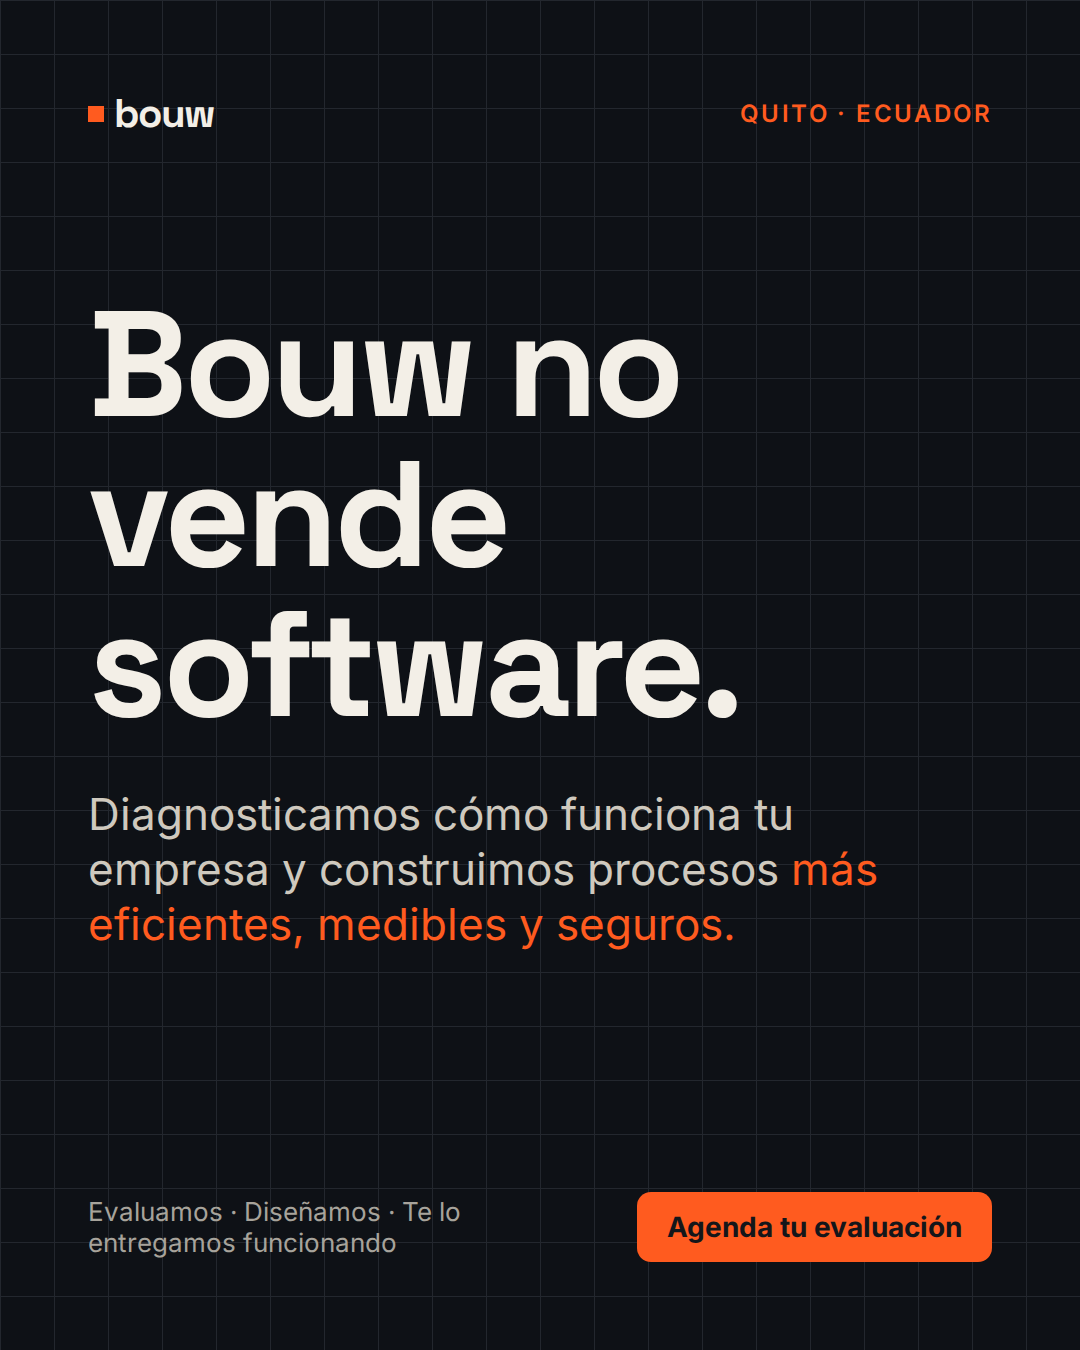
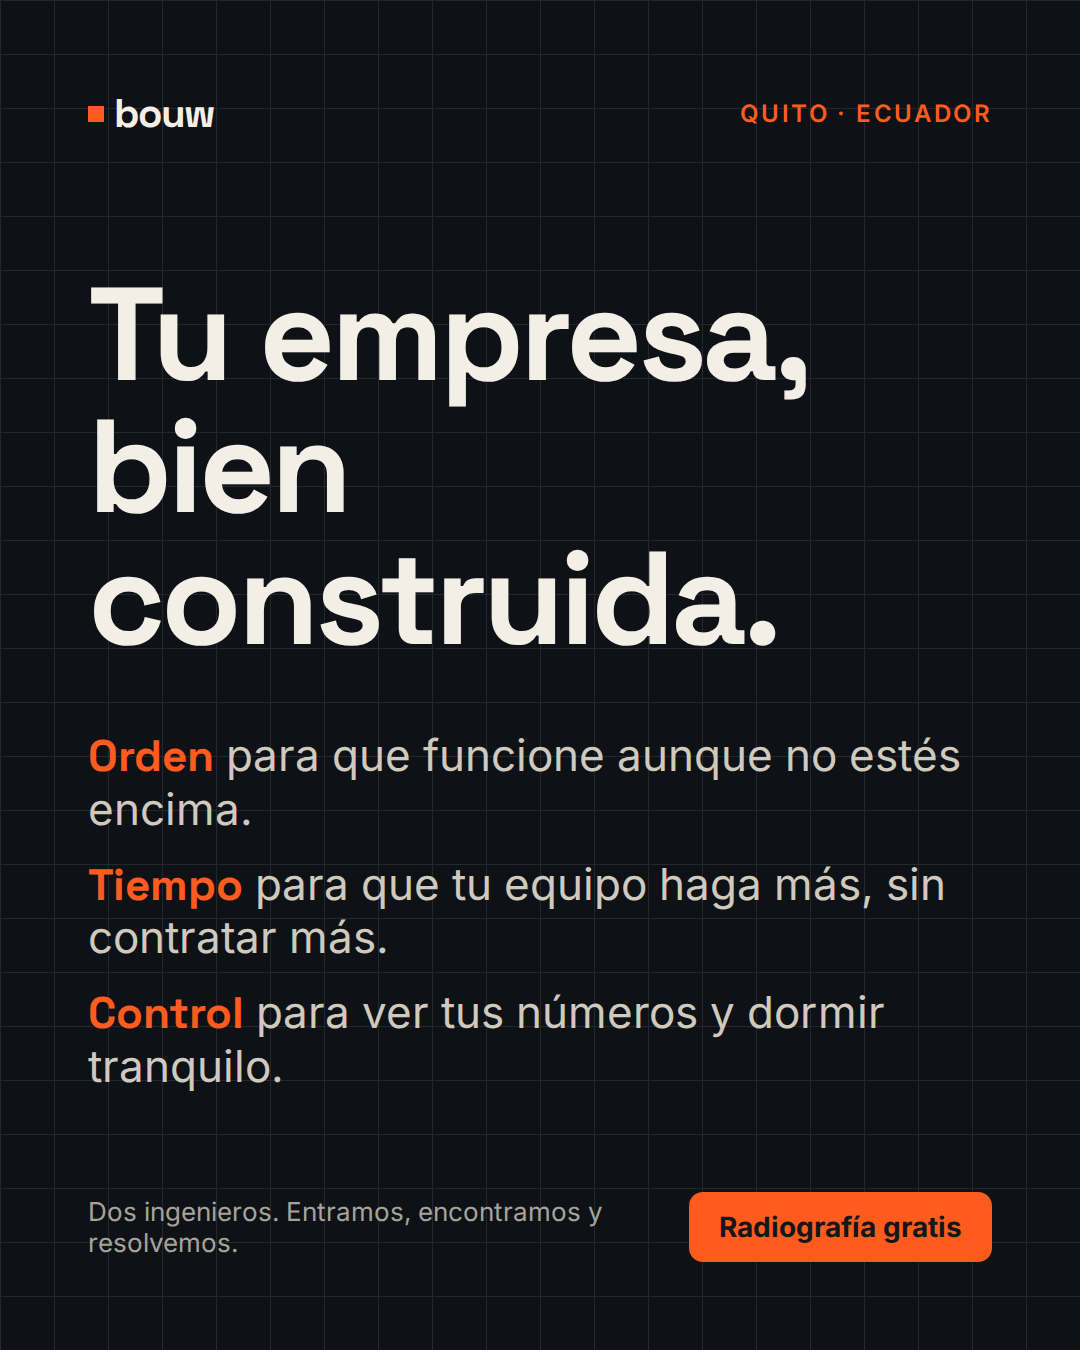
Reframe Bouw around client needs (Orden, Tiempo, Control) with its own tagline; update posts and plan
Claude-Session: https://claude.ai/code/session_01X9BCiBmUnysFCiinSn9nGn

Changed region(s): [[0.0611, 0.1867, 0.8861, 0.8089], [0.0917, 0.8711, 0.55, 0.9333], [0.5806, 0.8711, 0.8861, 0.9333]]

diff --git a/posts-bouw/posts.html b/posts-bouw/posts.html
@@ -76,6 +76,7 @@ body { background:#888; font-family:"Inter",sans-serif; display:flex; flex-wrap:
 .pillars { display:grid; grid-template-columns:1fr; gap:14px; }
 .pillars div { background:#fff; border:2px solid var(--ink); border-radius:16px; padding:22px 24px; font-family:"Space Grotesk"; font-weight:700; font-size:34px; display:flex; align-items:center; gap:14px; }
 .pillars div i { width:14px; height:14px; background:var(--orange); flex:none; }
+.pillars .sub { font-family:"Inter"; font-weight:500; font-size:22px; color:var(--muted); margin-left:auto; text-align:right; }
 
 /* historia */
 .story { width:1080px; height:1920px; padding:140px 88px 160px; }
@@ -95,20 +96,24 @@ body { background:#888; font-family:"Inter",sans-serif; display:flex; flex-wrap:
 <section class="cover grid" id="fb-portada">
   <div>
     <div class="logo" style="font-size:52px"><i></i>bouw</div>
-    <h1 class="h" style="font-size:70px;margin-top:36px">Construimos empresas que funcionan mejor.</h1>
+    <h1 class="h" style="font-size:84px;margin-top:36px">Tu empresa, bien construida.</h1>
     <p style="font-size:28px;margin-top:22px;max-width:760px;line-height:1.35" class="muted">Consultoría para pymes · Quito, Ecuador</p>
   </div>
   <div class="pillars">
-    <div><i></i>Evaluación y estrategia</div><div><i></i>Procesos, automatización e IA</div><div><i></i>Datos y seguridad</div>
+    <div><i></i>Orden<span class="sub">Que funcione sin que estés encima</span></div><div><i></i>Tiempo<span class="sub">Tu equipo hace más, sin contratar</span></div><div><i></i>Control<span class="sub">Tus números a tiempo y tu información segura</span></div>
   </div>
 </section>
 
 <!-- 01 Manifiesto -->
 <section class="post dark grid" id="p01-manifiesto">
   <div class="top"><div class="logo"><i></i>bouw</div><span class="tag" style="color:var(--orange)">Quito · Ecuador</span></div>
-  <h1 class="h" style="font-size:150px;margin-top:150px">Bouw no vende software.</h1>
-  <p style="font-size:44px;line-height:1.25;margin-top:48px;max-width:860px;color:#CFC9BE">Diagnosticamos cómo funciona tu empresa y construimos procesos <span style="color:var(--orange)">más eficientes, medibles y seguros.</span></p>
-  <div class="foot"><span style="color:#A7A39B">Evaluamos · Diseñamos · Te lo entregamos funcionando</span><span class="cta">Agenda tu evaluación</span></div>
+  <h1 class="h" style="font-size:132px;margin-top:130px">Tu empresa, bien construida.</h1>
+  <div style="margin-top:64px;display:grid;gap:22px;font-size:44px;line-height:1.2">
+    <div><b style="color:var(--orange);font-family:'Space Grotesk'">Orden</b> <span style="color:#CFC9BE">para que funcione aunque no estés encima.</span></div>
+    <div><b style="color:var(--orange);font-family:'Space Grotesk'">Tiempo</b> <span style="color:#CFC9BE">para que tu equipo haga más, sin contratar más.</span></div>
+    <div><b style="color:var(--orange);font-family:'Space Grotesk'">Control</b> <span style="color:#CFC9BE">para ver tus números y dormir tranquilo.</span></div>
+  </div>
+  <div class="foot"><span style="color:#A7A39B">Dos ingenieros. Entramos, encontramos y resolvemos.</span><span class="cta">Radiografía gratis</span></div>
 </section>
 
 <!-- 02 Señales de Excel -->
@@ -253,16 +258,16 @@ body { background:#888; font-family:"Inter",sans-serif; display:flex; flex-wrap:
   </div>
 </section>
 
-<!-- 09 Tres áreas -->
+<!-- 09 Tres necesidades -->
 <section class="post grid" id="p09-tres-areas">
-  <div class="top"><div class="logo"><i></i>bouw</div><span class="tag" style="color:var(--orange)">Qué hacemos</span></div>
-  <h1 class="h" style="font-size:78px;margin-top:52px">Evaluamos tu empresa y te entregamos soluciones que funcionan.</h1>
+  <div class="top"><div class="logo"><i></i>bouw</div><span class="tag" style="color:var(--orange)">¿Qué necesita tu empresa?</span></div>
+  <h1 class="h" style="font-size:80px;margin-top:52px">¿Qué te quita más el sueño?</h1>
   <div class="areas">
-    <div class="area"><span class="num">1</span><div><b>Evaluación y estrategia</b><small>Te decimos dónde está el problema y qué hacer primero.</small></div></div>
-    <div class="area"><span class="num">2</span><div><b>Procesos, automatización e IA</b><small>Menos tareas repetitivas, menos errores, menos costo.</small></div></div>
-    <div class="area"><span class="num">3</span><div><b>Datos y seguridad</b><small>Tus números para decidir a tiempo, y tu información protegida.</small></div></div>
+    <div class="area"><span class="num">1</span><div><b>Orden</b><small>“Todo pasa por mí.” Te dejamos una empresa que funciona aunque no estés encima.</small></div></div>
+    <div class="area"><span class="num">2</span><div><b>Tiempo</b><small>“No nos alcanza el día.” Tu equipo recupera horas cada semana, sin contratar más.</small></div></div>
+    <div class="area"><span class="num">3</span><div><b>Control</b><small>“Me entero a fin de mes.” Tus números cada lunes y tu información protegida.</small></div></div>
   </div>
-  <div class="foot"><span>No vendemos tecnología. Construimos soluciones.</span><span class="cta">Evaluación gratis</span></div>
+  <div class="foot"><span>Tu empresa, bien construida.</span><span class="cta">Radiografía gratis</span></div>
 </section>
 
 </body>

diff --git a/BOUW-EN-UNA-PAGINA.md b/BOUW-EN-UNA-PAGINA.md
@@ -1,101 +1,91 @@
 # Bouw en una página
 
-> **Este documento define en qué se centra Bouw.** Todo lo demás (marketing, publicaciones, precios) se alinea con esto.
+> **Este documento define qué vende Bouw.** Marketing, publicaciones y conversaciones de venta se alinean con esto.
+> Regla: Bouw **no vende servicios**, vende la solución a **tres necesidades** que todo dueño de pyme reconoce.
 
 ---
 
-## Quiénes somos
+## La frase de Bouw
+> ## **Tu empresa, bien construida.**
+> *(bouw = construir)*
 
-**Bouw es una consultora de transformación digital para empresas de Quito.**
-Somos dos socios: uno de **procesos** (Ing. Industrial) y uno de **informática y ciberseguridad**.
+**Promesa:** *Te devolvemos el **orden**, el **tiempo** y el **control** de tu empresa.*
 
-### Nuestra promesa
-> **Evaluamos tu empresa, diseñamos la solución y te la entregamos funcionando: eficiente, medible y segura.**
-
-### Nuestra frase (al estilo Hanova)
-> **"No vendemos tecnología. Construimos soluciones que hacen que tu empresa funcione mejor."**
-> (*bouw* = construir)
+**Quiénes somos:** dos ingenieros de Quito, uno de **procesos** y uno de **informática y ciberseguridad**, que entran a tu empresa, encuentran qué te está frenando y lo dejan resuelto.
 
 ---
 
-## Nuestras 3 áreas
+## Las 3 necesidades que resolvemos
 
-### 1. Evaluación y estrategia
-**"Evaluamos tu empresa y te decimos dónde está el problema y qué hacer primero."**
-Analizamos cómo trabaja tu empresa hoy (procesos, sistemas, datos y seguridad) para encontrar dónde se pierde tiempo, dinero o información, y te entregamos un plan claro con prioridades.
-- **Entregas:** diagnóstico, mapa de procesos, hoja de ruta priorizada (qué hacer primero, cuánto cuesta, qué ganas).
-- **Lo lideran:** los dos socios.
+### 🧱 1. ORDEN: *"Que tu empresa funcione aunque no estés encima"*
+**Lo que dice el dueño:**
+- "Todo pasa por mí."
+- "Cada uno hace las cosas a su manera."
+- "Si alguien falta, se para todo."
 
-### 2. Procesos, automatización e IA
-**"Rediseñamos y automatizamos tus procesos para que tu equipo trabaje menos en lo repetitivo y mejor en lo que importa."**
-Eliminamos pasos innecesarios, doble digitación y tareas manuales. Aplicamos inteligencia artificial donde de verdad ayuda: **no reemplaza a tu equipo, lo hace más productivo.**
-- **Entregas:** procesos rediseñados y documentados, flujos automáticos, IA aplicada a tareas concretas, capacitación del equipo.
-- **Lo lidera:** el socio de procesos (Ing. Industrial).
+**Lo que necesita:** una empresa que camine sola, con procesos claros y responsables definidos.
+**Lo que Bouw entrega:** procesos ordenados y documentados, responsables por tarea, reglas simples que el equipo sí sigue.
+**Cómo sabe el cliente que funcionó:** deja de apagar incendios y la operación sigue aunque falte alguien.
+**Lo lidera:** el socio de procesos.
 
-### 3. Datos y seguridad
-**"Convertimos tus datos en decisiones y los protegemos."**
-Ponemos tus números en tableros claros para decidir a tiempo, y protegemos tu información: accesos, respaldos, continuidad ante fallas y cumplimiento de la Ley de Protección de Datos.
-- **Entregas:** tableros e indicadores, evaluación de seguridad, respaldos y plan de continuidad, políticas de uso de información.
-- **Lo lidera:** el socio de informática y ciberseguridad.
+### ⏱ 2. TIEMPO: *"Que tu equipo haga más, sin contratar más"*
+**Lo que dice el dueño:**
+- "No nos alcanza el día."
+- "Escribimos lo mismo tres veces."
+- "Los errores nos cuestan plata."
+
+**Lo que necesita:** recuperar las horas que se van en tareas repetitivas y en corregir errores.
+**Lo que Bouw entrega:** automatización de lo repetitivo, eliminación de la doble digitación, inteligencia artificial en tareas concretas (cotizaciones, reportes, respuestas).
+**Cómo sabe el cliente que funcionó:** **horas recuperadas por semana**, medidas antes y después.
+**Lo lideran:** el socio de procesos, con el socio informático en las herramientas.
+
+### 🛡 3. CONTROL: *"Saber qué pasa en tu empresa y dormir tranquilo"*
+**Lo que dice el dueño:**
+- "Me entero de los números a fin de mes."
+- "No sé si mi información está segura."
+- "Si se daña la computadora, perdemos todo."
+
+**Lo que necesita:** ver sus números a tiempo y tener su información protegida.
+**Lo que Bouw entrega:** un tablero con los números clave cada lunes, respaldos que funcionan, accesos ordenados y un plan para fallas, ataques informáticos y apagones.
+**Cómo sabe el cliente que funcionó:** decide con datos de esta semana y sabe exactamente qué hacer si algo falla.
+**Lo lidera:** el socio de informática y ciberseguridad.
 
 ---
 
-## Cómo trabajamos
+## Cómo empieza todo: la **Radiografía Bouw**
+Una conversación gratuita de **1 hora** en la empresa del cliente:
+1. **Preguntamos:** *"¿Qué te quita más el sueño: el desorden, el tiempo o no tener el control?"*
+2. **Revisamos** un proceso clave y 5 puntos de seguridad.
+3. **Entregamos** en 24 horas una hoja con lo que encontramos y qué haríamos primero.
 
-```
-EVALUAR  →  DISEÑAR  →  IMPLEMENTAR  →  ACOMPAÑAR
-Entendemos   Proponemos    Lo construimos   Medimos resultados
-tu empresa   la solución    y lo dejamos     y ajustamos
-             que conviene   funcionando      mes a mes
-```
-
-- **Primero evaluamos, después proponemos.** Nunca vendemos una herramienta antes de entender el problema.
-- **Somos independientes:** no vendemos software de ninguna marca. Elegimos lo que le conviene a tu empresa.
-- **La seguridad va incluida** en todo lo que implementamos.
+Después: **propuesta → solución implementada → acompañamiento mensual**.
 
 ---
 
 ## Para quién
-Pequeñas y medianas empresas de Quito (de 10 a 200 personas) de **cualquier sector** que:
-- trabajan con Excel, papeles y WhatsApp, y sienten que se les va el tiempo en tareas repetitivas;
-- tienen un sistema que no aprovechan;
-- no ven sus números a tiempo;
-- nunca han revisado la seguridad de su información.
+Dueños y gerentes de pymes de Quito (10 a 200 personas), de **cualquier sector**, que sienten al menos una de las tres necesidades.
 
 ---
 
-## Lo que NO hacemos
-- No vendemos software ni licencias.
-- No hacemos marketing en redes ni publicidad para clientes.
-- No desarrollamos aplicaciones a medida desde cero: si hace falta, lo coordinamos con un aliado.
+## Cómo se habla de Bouw (guía de mensajes)
 
----
-
-## Hanova → Bouw (de dónde sale esto)
-
-| Hanova Consulting (Monterrey) | Bouw (Quito) |
+| En vez de decir… | Decimos… |
 |---|---|
-| Consultoría estratégica y evaluación tecnológica: *"Analizamos tu negocio para identificar oportunidades de mejora y definir dónde la digitalización genera mayor impacto"* | **1. Evaluación y estrategia** |
-| Optimización y automatización de procesos: *"Rediseñamos y automatizamos tus procesos para eliminar fricciones, reducir costos y ganar eficiencia operativa"* | **2. Procesos, automatización e IA** |
-| Inteligencia artificial: *"No reemplazamos a tu equipo, lo hacemos extraordinario"* | (dentro del área 2) |
-| Inteligencia de negocio: *"Convertimos tus datos en decisiones"* | **3. Datos y seguridad** |
-| Ciberseguridad industrial (portafolio anterior) | (dentro del área 3: es la fortaleza de tu socio) |
-| "No vendemos tecnología, diseñamos estrategias digitales" | "No vendemos tecnología. Construimos soluciones que hacen que tu empresa funcione mejor" |
-| "Tus socios en transformación digital" · 2–10 personas · fundada en 2021 | Dos socios · Quito · 2026 |
+| "Hacemos optimización de procesos" | "Tu empresa funciona aunque no estés encima" |
+| "Automatizamos con IA" | "Tu equipo recupera horas cada semana" |
+| "Hacemos BI y ciberseguridad" | "Ves tus números cada lunes y tu información está protegida" |
+| "Ofrecemos un diagnóstico" | "Te hacemos la Radiografía Bouw: 1 hora, gratis" |
+| "Somos consultores" | "Somos dos ingenieros que entran, encuentran qué te frena y lo dejan resuelto" |
 
-Hanova tiene 4 áreas. Bouw las resume en 3 porque la IA vive dentro de los procesos y porque su diferencia es juntar **datos + seguridad**, que es la especialidad de tu socio.
+**Regla de oro:** toda publicación y toda conversación empieza por **el problema del cliente** (sus palabras) y termina en **una de las tres necesidades** + *"Agenda tu Radiografía Bouw."*
 
 ---
 
-## Cómo se usa esto en el marketing
-- **Toda publicación cae en una de las 3 áreas** (o en "quiénes somos").
-- **Cierre de todo mensaje:** *"Agenda una evaluación gratuita."*
-- **Web, Facebook, Instagram y LinkedIn** muestran las mismas 3 áreas, con las mismas frases.
-- Pieza gráfica lista: `posts-bouw/png/p09-tres-areas.png`.
+## Lo que Bouw no hace
+- No revende licencias de software (usamos la herramienta que le conviene al cliente).
+- No maneja redes sociales ni publicidad para clientes.
+- No desarrolla aplicaciones grandes desde cero (si hace falta, coordinamos con un aliado).
 
 ---
 
-## Fuentes
-- [Hanova, sitio en español](https://hanova.mx/es/) · [Servicios](https://www.hanova.mx/servicios.html) · [Services (EN)](https://hanova.mx/services.html) · [Nosotros (EN)](https://hanova.mx/en/nosotros/) · [Contacto](https://hanova.mx/en/contacto/) · [LinkedIn](https://mx.linkedin.com/company/hanova-consulting) · [ZoomInfo](https://www.zoominfo.com/c/hanova-consulting/1311623585)
-
-> Mi entorno no pudo abrir el sitio de Hanova directamente. Las frases citadas vienen de los resúmenes de búsqueda de su sitio.
+*Referencia: el modelo de consultora de Hanova (Monterrey) sirvió como inspiración para la estructura (evaluar primero, pocas áreas, dos socios complementarios). El mensaje, los nombres y la promesa son propios de Bouw.*

diff --git a/posts-bouw/README.md b/posts-bouw/README.md
@@ -6,7 +6,7 @@ Sistema visual: tinta, papel, naranja + **cuadrícula de plano** como motivo (*b
 | Archivo | Uso | Tamaño |
 |---|---|---|
 | `png/fb-portada.png` | Portada de la página de Facebook | 1640×624 |
-| `png/p09-tres-areas.png` | **Qué hacemos: las 3 áreas.** Publícala primero y fíjala en Facebook | 1080×1350 |
+| `png/p09-tres-areas.png` | **¿Qué te quita más el sueño? Orden · Tiempo · Control.** Publícala primero y fíjala en Facebook | 1080×1350 |
 | `png/p01…p08` | Feed de **Facebook e Instagram** (sirven también en LinkedIn) | 1080×1350 |
 | `png/li-01…li-03` | **Carrusel de LinkedIn** (súbelo como documento PDF o como imágenes) | 1080×1350 |
 | `png/li-04-erp.png` | Publicación de LinkedIn (sirve también en Facebook) | 1080×1350 |
@@ -23,7 +23,7 @@ Sistema visual: tinta, papel, naranja + **cuadrícula de plano** como motivo (*b
 
 | Semana | Facebook (principal) | Instagram | LinkedIn |
 |---|---|---|---|
-| 1 | Portada + **p09 Tres áreas (fijada)** + **p01 Manifiesto** + **p07 Socios** | p01 + historia | Presentación de los socios desde sus perfiles + p01 |
+| 1 | Portada + **p09 Orden·Tiempo·Control (fijada)** + **p01 Manifiesto** + **p07 Socios** | p01 + historia | Presentación de los socios desde sus perfiles + p01 |
 | 2 | **p02 Señales de Excel** + **p03 Doble digitación** | p02 + historia | **Carrusel li-01/02/03** (indicadores) |
 | 3 | **p04 Método** + **p06 Apagón** | p04 + historia | **li-04 ERP** + p06 |
 | 4 | **p05 Seguridad** + **p08 Mini diagnóstico** | p08 + historia | p05 + p08 |
@@ -36,18 +36,20 @@ Sistema visual: tinta, papel, naranja + **cuadrícula de plano** como motivo (*b
 
 ### p01 · Manifiesto
 **Facebook / Instagram**
-> Bouw no vende software. 🧱
-> Muchas empresas compran un sistema esperando que ordene todo… y terminan con el mismo desorden, pero más caro.
-> Nosotros empezamos al revés: entendemos cómo funciona tu empresa, encontramos dónde se pierde tiempo y dinero, y recién ahí construimos la solución, sea o no un software.
-> Procesos · Datos · Seguridad · IA aplicada.
-> 📍 Quito · Agenda tu mini diagnóstico gratis por mensaje.
-> #Quito #PymesEcuador #Emprendedores #Procesos #TransformaciónDigital
+> Tu empresa, bien construida. 🧱
+> Orden, para que funcione aunque no estés encima.
+> Tiempo, para que tu equipo haga más sin contratar más.
+> Control, para ver tus números a tiempo y dormir tranquilo.
+> Somos dos ingenieros de Quito: entramos a tu empresa, encontramos qué te frena y lo dejamos resuelto.
+> 📍 Agenda tu Radiografía Bouw gratis (1 hora) por mensaje.
+> #Quito #PymesEcuador #Emprendedores #Procesos #Productividad
 
 **LinkedIn** (desde el perfil de un socio)
-> Hoy lanzamos Bouw con una idea sencilla: **no vendemos software.**
-> En muchas pymes de Quito el problema no es la falta de un sistema, sino procesos que nadie ha dibujado, datos repetidos en 3 lugares y cero protección de la información.
-> Somos dos ingenieros, uno de procesos y otro de ciberseguridad, y trabajamos con un método: entender, diagnosticar, priorizar, construir, asegurar y medir.
-> Si diriges una pyme y quieres saber dónde se escapa el tiempo en tu operación, este mes hacemos mini diagnósticos gratuitos de 1 hora. Escríbeme.
+> Hoy lanzamos Bouw. Después de hablar con muchos dueños de pymes, escuchamos siempre tres frases:
+> "Todo pasa por mí." "No nos alcanza el día." "Me entero de los números a fin de mes."
+> Detrás de esas frases hay tres necesidades: **orden, tiempo y control**. Eso es lo que resolvemos.
+> Somos dos ingenieros, uno de procesos y otro de informática y ciberseguridad. Entramos a la empresa, encontramos qué la frena y lo dejamos resuelto.
+> Este mes hacemos Radiografías Bouw gratuitas de 1 hora. Si una de esas frases te suena, escríbeme.
 
 ### p02 · 5 señales de que tu empresa vive en Excel
 **Facebook / Instagram**
@@ -132,10 +134,10 @@ Sistema visual: tinta, papel, naranja + **cuadrícula de plano** como motivo (*b
 ### Historia · Mini diagnóstico
 Usa el sticker de enlace o "Enviar mensaje" y una encuesta: *"¿Tu empresa vive en Excel? Sí / Un poco"*.
 
-### p09 · Qué hacemos: las 3 áreas (fijar en Facebook)
-> Evaluamos tu empresa y te entregamos soluciones que funcionan. 🧱
-> 1⃣ Evaluación y estrategia: te decimos dónde está el problema y qué hacer primero.
-> 2⃣ Procesos, automatización e IA: menos tareas repetitivas, menos errores, menos costo.
-> 3⃣ Datos y seguridad: tus números para decidir a tiempo, y tu información protegida.
-> No vendemos tecnología. Construimos soluciones que hacen que tu empresa funcione mejor.
-> 📍 Quito · Agenda tu evaluación gratuita por mensaje.
+### p09 · ¿Qué te quita más el sueño? (fijar en Facebook)
+> ¿Qué te quita más el sueño? 👇
+> 1⃣ ORDEN: "Todo pasa por mí." Te dejamos una empresa que funciona aunque no estés encima.
+> 2⃣ TIEMPO: "No nos alcanza el día." Tu equipo recupera horas cada semana, sin contratar más.
+> 3⃣ CONTROL: "Me entero a fin de mes." Tus números cada lunes y tu información protegida.
+> Cuéntanos en los comentarios: ¿1, 2 o 3?
+> Tu empresa, bien construida. 📍 Quito · Agenda tu Radiografía Bouw gratis por mensaje.

diff --git a/PLAN-MARKETING-BOUW.md b/PLAN-MARKETING-BOUW.md
@@ -29,7 +29,7 @@
 |---|---|
 | **Marca personal de la fundadora** (profesora de consultoría en transformación digital en el Tec de Monterrey) | Tú y tu socio como **caras visibles**: perfiles de LinkedIn impecables, publicaciones propias, clases en educación continua (USFQ, PUCE, EPN, ESPE, UDLA) |
 | **Entrevistas en medios locales** (*Players of Life*) | Notas y columnas en *Revista Gestión*, *Ekos*, *Primicias*, *El Comercio*, podcasts de negocios de Quito |
-| **"No vendemos tecnología"** (independencia) | Mensaje central: *"Bouw no vende software. Diagnosticamos y construimos procesos eficientes, medibles y seguros."* |
+| Mensaje propio de la marca | Mensaje central de Bouw: *"Tu empresa, bien construida."* Orden · Tiempo · Control |
 | **Diagnóstico primero** (4–10 semanas) | **Mini diagnóstico gratis** como oferta de entrada en todos los canales |
 | **Pilares:** automatización, seguridad, innovación, adaptabilidad | **Pilares Bouw:** Procesos · Datos · Seguridad · IA aplicada |
 | **Testimonios de clientes** | 2–3 pilotos con descuento a cambio de testimonio y caso |
@@ -54,7 +54,7 @@
 ## 4. Mensajes
 
 **Frase principal:**
-> **"Bouw no vende software. Diagnosticamos cómo funciona tu empresa y construimos procesos más eficientes, medibles y seguros."**
+> **"Tu empresa, bien construida."** Te devolvemos el orden, el tiempo y el control de tu empresa. (Ver [`BOUW-EN-UNA-PAGINA.md`](BOUW-EN-UNA-PAGINA.md))
 
 **Mensajes de apoyo por pilar:**
 | Pilar | Mensaje |

diff --git a/HANOVA-QUITO.md b/HANOVA-QUITO.md
@@ -42,7 +42,7 @@
 ## 3. El portafolio de Bouw (calcado de Hanova, adaptado a Quito)
 
 **Frase de posicionamiento (estilo Hanova):**
-> **"Bouw no vende software. Diagnosticamos cómo funciona tu empresa y construimos procesos más eficientes, medibles y seguros."** (*bouw* = construir)
+> *(Reemplazado.)* El mensaje propio de Bouw es **"Tu empresa, bien construida."** con las necesidades Orden · Tiempo · Control. Ver [`BOUW-EN-UNA-PAGINA.md`](BOUW-EN-UNA-PAGINA.md).
 
 | # | Servicio | Qué incluye | Quién lidera | Precio de referencia en Quito (a validar) |
 |---|---|---|---|---|
